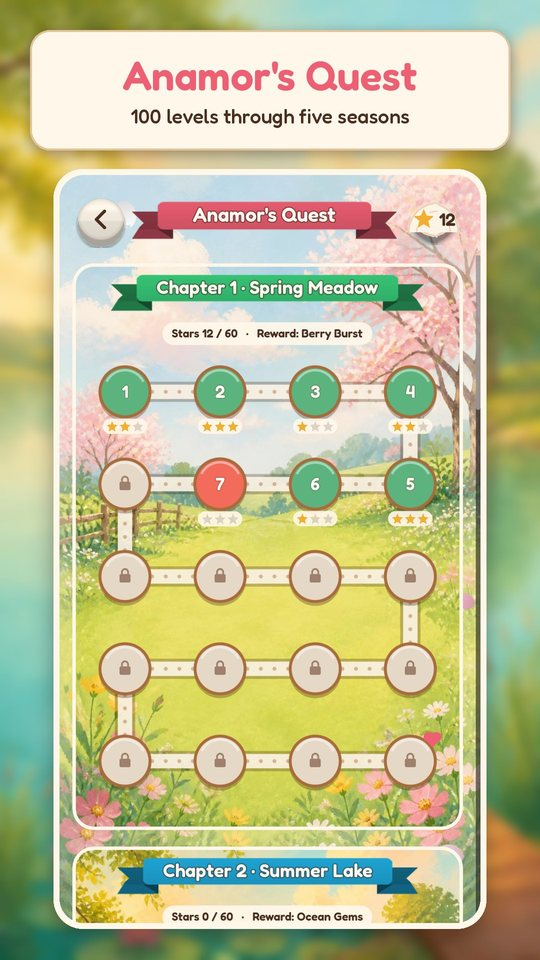
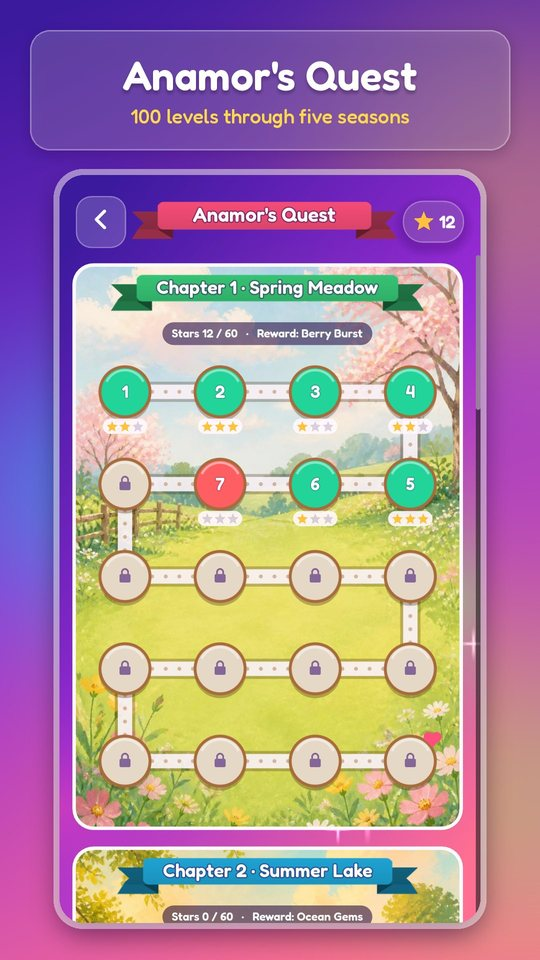
Vibrant glass restyle for v1.4
Claude-Session: https://claude.ai/code/session_01LwkA4Nvuv8MEDAxiTBvkcH

diff --git a/assets/style.css b/assets/style.css
@@ -1,33 +1,34 @@
 @font-face { font-family: "Fredoka"; src: url("Fredoka-Medium.woff2") format("woff2"); font-weight: 400 500; font-display: swap; }
 @font-face { font-family: "Fredoka"; src: url("Fredoka-SemiBold.woff2") format("woff2"); font-weight: 600 700; font-display: swap; }
 :root {
-  --bg: #fbe6c8;
-  --panel: rgba(255, 247, 234, .94);
-  --trace: #e2c49c;
-  --text: #4a2e1f;
-  --dim: #8c6a55;
-  --accent: #e2475f;
-  --accent2: #5db37e;
+  --bg: #6a11cb;
+  --panel: rgba(255, 255, 255, .95);
+  --trace: rgba(255, 255, 255, .7);
+  --text: #2e1048;
+  --dim: #6b4a8c;
+  --accent: #d6246e;
+  --accent2: #8a2be2;
   --warn: #b7791f;
-  --line: rgba(160, 110, 60, .28);
+  --line: rgba(110, 40, 160, .2);
+  --grad: linear-gradient(160deg, #6a11cb 0%, #c21dbe 50%, #ff6a5e 100%);
+  --shadow: rgba(60, 10, 110, .28);
 }
 * { box-sizing: border-box; }
 html { -webkit-text-size-adjust: 100%; }
 body {
   margin: 0;
+  min-height: 100vh;
   background: var(--bg);
-  background-image: linear-gradient(rgba(255, 244, 228, .72), rgba(255, 244, 228, .72)), url("bg.jpg");
-  background-size: cover;
-  background-position: center;
-  background-attachment: fixed;
+  background-image: radial-gradient(circle at 15% 12%, rgba(0, 229, 255, .3), transparent 30%),
+    radial-gradient(circle at 85% 45%, rgba(255, 210, 63, .3), transparent 30%), var(--grad);
   color: var(--text);
   font: 16px/1.65 "Fredoka", system-ui, -apple-system, "Segoe UI", Roboto, sans-serif;
 }
 a { color: var(--accent); }
-a:hover { color: #b8324a; }
+a:hover { color: #a3135a; }
 header.top {
   border-bottom: 1px solid var(--line);
-  background: rgba(255, 247, 234, .94);
+  background: rgba(255, 255, 255, .9);
   position: sticky; top: 0; z-index: 5;
   backdrop-filter: blur(6px);
 }
@@ -45,18 +46,28 @@ nav.links a[aria-current="page"], nav.links a:hover { color: var(--accent); }
 }
 .lang button[aria-pressed="true"] { color: var(--bg); background: var(--accent); border-color: var(--accent); }
 main { padding: 28px 0 60px; }
+/* text pages sit on a white sheet; the landing page (with .hero2) is glass on the gradient */
+main > article:not(:has(.hero2)):not(.plain) { background: var(--panel); border-radius: 26px; padding: 18px 26px 26px;
+  box-shadow: 0 14px 34px var(--shadow); }
+main > article:has(.hero2) > h2, main > article:has(.hero2) > p:not(.intro) { color: #fff; }
+main > article:has(.hero2) > h2 { text-shadow: 0 3px 8px rgba(58, 16, 96, .35); }
+main > article:has(.hero2) > p a { color: #ffe36e; }
+main > article.plain h1 { color: #fff; text-shadow: 0 3px 8px rgba(58, 16, 96, .35); }
+main > article.plain .meta { color: rgba(255, 255, 255, .88); }
+main > div[data-lang] > h2 { color: #fff; text-shadow: 0 3px 8px rgba(58, 16, 96, .35); }
+footer a { color: #ffe36e; } footer a:hover { color: #fff; }
 h1 { font-size: 30px; line-height: 1.2; margin: 8px 0 6px; letter-spacing: .02em; }
 h2 { font-size: 20px; margin: 34px 0 8px; color: var(--accent); }
 h3 { font-size: 17px; margin: 22px 0 6px; }
 .meta { color: var(--dim); font-size: 14px; margin-bottom: 18px; }
 .card {
   background: var(--panel); border: 2px solid var(--trace); border-radius: 22px;
-  padding: 18px 22px; margin: 18px 0; box-shadow: 0 8px 22px rgba(90, 50, 20, .18);
+  padding: 18px 22px; margin: 18px 0; box-shadow: 0 8px 22px var(--shadow);
 }
 .hero { text-align: center; padding: 30px 0 10px; }
-.hero img { width: 128px; height: 128px; border-radius: 28px; box-shadow: 0 10px 30px rgba(120, 60, 20, .35); }
-.hero h1 { font-size: 40px; margin-top: 16px; color: var(--accent); text-shadow: 0 2px 0 #fff, 0 0 18px rgba(255,255,255,.9); }
-.hero .sub { color: var(--accent2); letter-spacing: .3em; font-weight: 700; }
+.hero img { width: 128px; height: 128px; border-radius: 28px; box-shadow: 0 10px 30px var(--shadow); }
+.hero h1 { font-size: 40px; margin-top: 16px; color: #fff; text-shadow: 0 4px 10px rgba(58, 16, 96, .45); }
+.hero .sub { color: #ffd84d; letter-spacing: .3em; font-weight: 700; }
 .promise { border-left: 4px solid var(--accent); }
 .todo { background: rgba(255,176,0,.15); color: var(--warn); border: 1px dashed var(--warn); padding: 0 4px; border-radius: 4px; }
 table { width: 100%; border-collapse: collapse; font-size: 15px; }
@@ -64,9 +75,9 @@ th, td { text-align: left; vertical-align: top; padding: 8px 10px; border-bottom
 th { color: var(--dim); font-weight: 600; }
 .tablewrap { overflow-x: auto; }
 ul { padding-left: 22px; }
-footer { border-top: 1px solid var(--line); color: var(--dim); font-size: 14px; padding: 22px 0 40px; }
+footer { border-top: 1px solid rgba(255,255,255,.3); color: rgba(255,255,255,.85); font-size: 14px; padding: 22px 0 40px; }
 footer .wrap { display: flex; gap: 16px; flex-wrap: wrap; justify-content: space-between; }
-code { background: #f1e2cc; padding: 1px 5px; border-radius: 4px; font-size: 14px; }
+code { background: #efe4ff; padding: 1px 5px; border-radius: 4px; font-size: 14px; }
 /* language switching: without JS both languages stay visible */
 html.js [data-lang] { display: none; }
 html.js.lang-en [data-lang="en"], html.js.lang-de [data-lang="de"] { display: block; }
@@ -79,18 +90,18 @@ html:not(.js) [data-lang="de"] { border-top: 1px solid var(--line); margin-top: 
 .badge { display: inline-block; margin-top: 6px; padding: 6px 16px; border-radius: 999px; background: var(--accent); color: #fff; font-weight: 600; }
 .gallery { display: grid; grid-template-columns: repeat(auto-fit, minmax(170px, 1fr)); gap: 14px; margin: 26px 0; }
 .gallery figure { margin: 0; text-align: center; }
-.gallery img { width: 100%; border-radius: 18px; border: 5px solid #fff7ea; box-shadow: 0 10px 24px rgba(90, 50, 20, .3); }
-.gallery figcaption { font-size: 14px; color: var(--dim); margin-top: 6px; }
+.gallery img { width: 100%; border-radius: 18px; border: 4px solid rgba(255,255,255,.6); box-shadow: 0 10px 24px var(--shadow); }
+.gallery figcaption { font-size: 14px; color: #fff; margin-top: 6px; }
 html.js .gallery figcaption[data-lang] { display: none; }
 html.js.lang-en .gallery figcaption[data-lang="en"], html.js.lang-de .gallery figcaption[data-lang="de"] { display: block; }
 
 /* --- buttons --- */
 .btn { display: inline-block; border: 0; cursor: pointer; font: inherit; font-weight: 600; color: #fff; text-decoration: none;
-  padding: 10px 22px; border-radius: 18px; background: linear-gradient(#f47b6c, #ee5f50); box-shadow: 0 5px 0 #b8443a, 0 8px 18px rgba(90,40,20,.25); }
+  padding: 10px 22px; border-radius: 999px; background: linear-gradient(#ff5f9e, #e3246e); box-shadow: 0 5px 0 #a3135a, 0 8px 18px var(--shadow); }
 .btn:hover { color: #fff; filter: brightness(1.08); }
-.btn:active { transform: translateY(4px); box-shadow: 0 1px 0 #b8443a; }
-.btn.alt { color: #4a2e1f; background: linear-gradient(#fffaf2, #f5e8d4); box-shadow: 0 5px 0 #cdb393, 0 8px 18px rgba(90,40,20,.2); }
-.btn.alt:hover { color: #4a2e1f; }
+.btn:active { transform: translateY(4px); box-shadow: 0 1px 0 #a3135a; }
+.btn.alt { color: #3a1659; background: linear-gradient(#ffe066, #ffc23d); box-shadow: 0 5px 0 #d99a12, 0 8px 18px var(--shadow); }
+.btn.alt:hover { color: #3a1659; }
 .btn span[data-lang] { display: none; }
 html.lang-en .btn span[data-lang="en"], html.lang-de .btn span[data-lang="de"], html:not(.js) .btn span[data-lang="en"] { display: inline; }
 
@@ -98,21 +109,21 @@ html.lang-en .btn span[data-lang="en"], html.lang-de .btn span[data-lang="de"], 
 .tut { --cs: min(10vw, 52px); --ts: calc(var(--cs) * 0.5); margin: 10px auto 30px; max-width: 520px; text-align: center; touch-action: none; user-select: none; -webkit-user-select: none; }
 .tut-head { display: flex; justify-content: space-between; align-items: center; min-height: 30px; }
 .tut-steps { display: flex; gap: 8px; }
-.tut-steps .dot { width: 12px; height: 12px; border-radius: 50%; background: rgba(74,46,31,.18); }
+.tut-steps .dot { width: 12px; height: 12px; border-radius: 50%; background: rgba(255,255,255,.3); }
 .tut-steps .dot.done { background: var(--accent2); }
 .tut-steps .dot.now { background: var(--accent); box-shadow: 0 0 10px var(--accent); }
-.tut-score { font-weight: 600; color: var(--dim); }
-.tut-score b { color: var(--text); font-size: 22px; }
-.tut-msg { min-height: 3.2em; font-size: 18px; margin: 10px 0 14px; }
+.tut-score { font-weight: 600; color: rgba(255,255,255,.85); }
+.tut-score b { color: #fff; font-size: 22px; }
+.tut-msg { min-height: 3.2em; font-size: 18px; margin: 10px 0 14px; color: #fff; }
 .tut-msg span[data-lang] { display: none; }
 html.lang-en .tut-msg span[data-lang="en"], html.lang-de .tut-msg span[data-lang="de"], html:not(.js) .tut-msg span[data-lang="en"] { display: inline; }
 .tut-board { position: relative; display: grid; grid-template-columns: repeat(8, var(--cs)); grid-template-rows: repeat(8, var(--cs));
   width: calc(var(--cs) * 8); margin: 0 auto; padding: 8px; box-sizing: content-box; border-radius: 26px;
-  background: #f6ebda;
-  border: calc(var(--cs) * 0.3) solid #a86b3c;
-  border-image: none; box-shadow: inset 0 0 0 3px rgba(90,50,20,.25), 0 14px 30px rgba(90,50,20,.35); }
+  background: rgba(20, 0, 50, .32);
+  border: 2px solid rgba(255, 255, 255, .35);
+  border-image: none; box-shadow: 0 14px 30px var(--shadow); backdrop-filter: blur(6px); }
 .tut-board.over .cb { filter: grayscale(.85) brightness(.95); transition: filter .8s; }
-.tc { position: relative; margin: 2px; border-radius: 22%; background: #e9d9c2; box-shadow: inset 0 3px 5px rgba(90,50,20,.22); }
+.tc { position: relative; margin: 2px; border-radius: 22%; background: rgba(255, 255, 255, .13); }
 .tc.ok { background: rgba(61, 220, 132, .45); }
 .tc.bad { background: rgba(255, 59, 92, .45); }
 .tc.hl { box-shadow: inset 0 0 0 3px rgba(242,174,46,.9), 0 0 12px rgba(242,174,46,.6); }
@@ -133,54 +144,57 @@ html.lang-en .tut-msg span[data-lang="en"], html.lang-de .tut-msg span[data-lang
 .beam.v { top: -6%; height: 112%; width: calc(var(--cs) * 1.6); left: calc(8px + var(--i) * var(--cs) - var(--cs) * .3); }
 @keyframes beam { from { opacity: 1; } to { opacity: 0; transform: scale(1.1); } }
 .pop-text { position: absolute; left: 50%; top: 38%; transform: translate(-50%, -50%); font-size: 40px; font-weight: 700; pointer-events: none;
-  -webkit-text-stroke: 7px #4a2e1f; paint-order: stroke fill; animation: ptext 1s ease-out forwards; white-space: nowrap; }
+  -webkit-text-stroke: 7px #3a1060; paint-order: stroke fill; animation: ptext 1s ease-out forwards; white-space: nowrap; }
 .pop-text.pink { color: #ef5f73; } .pop-text.gold { color: #f6c453; }
 @keyframes ptext { 0% { transform: translate(-50%, -50%) scale(.3); } 25% { transform: translate(-50%, -50%) scale(1.1); } 70% { opacity: 1; } 100% { transform: translate(-50%, -70%); opacity: 0; } }
 .tut-tray { display: grid; grid-template-columns: repeat(3, 1fr); gap: 10px; margin: 16px auto 0; width: calc(var(--cs) * 8 + 16px);
-  min-height: calc(var(--cs) * 2.8); padding: 10px 0; border-radius: 22px; background: rgba(255, 247, 234, .92); border: 2px solid var(--trace); }
+  min-height: calc(var(--cs) * 2.8); padding: 10px 0; border-radius: 22px; background: rgba(255, 255, 255, .16); border: 2px solid rgba(255, 255, 255, .35); }
 .slot { display: flex; align-items: center; justify-content: center; }
 .piece { display: grid; cursor: grab; touch-action: none; }
 .piece .cb { position: relative; inset: auto; width: calc(var(--ts) - 2px); height: calc(var(--ts) - 2px); margin: 1px; }
 .piece.dim { opacity: .35; }
 .piece.lifted { visibility: hidden; }
-.drag-ghost { position: fixed; left: 0; top: 0; z-index: 50; pointer-events: none; filter: drop-shadow(0 10px 12px rgba(90,50,20,.4)); }
+.drag-ghost { position: fixed; left: 0; top: 0; z-index: 50; pointer-events: none; filter: drop-shadow(0 10px 12px rgba(40,0,80,.45)); }
 .drag-ghost .cb { position: absolute; inset: auto; transform: scale(.94); }
 .drag-ghost.back { transition: transform .18s ease-in; }
 .tut-buttons { display: flex; gap: 12px; justify-content: center; flex-wrap: wrap; margin-top: 22px; }
 .tut-msg .btn { margin-top: 10px; }
 
-/* --- landing page (v1.3) --- */
+/* --- landing page (v1.4, vibrant glass) --- */
 .hero2 { margin: 6px 0 22px; border-radius: 28px; overflow: hidden; padding: 70px 18px 40px;
-  background: url("hero.jpg") center/cover; box-shadow: 0 14px 34px rgba(90, 50, 20, .28); text-align: center; }
-.hero-card { display: inline-block; max-width: 560px; background: rgba(255, 247, 234, .93); border: 2px solid var(--trace);
-  border-radius: 26px; padding: 22px 26px 18px; box-shadow: 0 10px 26px rgba(90, 50, 20, .22); }
-.hero-icon { width: 112px; height: 112px; border-radius: 26px; margin-top: -78px; border: 5px solid #fff7ea;
-  box-shadow: 0 10px 24px rgba(90, 50, 20, .35); }
-.hero2 h1 { font-size: 40px; margin: 10px 0 2px; color: var(--accent); }
-.tagline { font-size: 19px; margin: 0 0 14px; color: var(--text); }
+  background: rgba(255, 255, 255, .14); border: 2px solid rgba(255, 255, 255, .35);
+  box-shadow: 0 14px 34px var(--shadow); text-align: center; backdrop-filter: blur(8px); }
+.hero-card { display: inline-block; max-width: 560px; }
+.hero-icon { width: 120px; height: 120px; border-radius: 28px; margin-top: -40px; border: 4px solid rgba(255,255,255,.8);
+  box-shadow: 0 12px 28px var(--shadow); }
+.hero2 h1 { font-size: 42px; margin: 12px 0 2px; color: #fff; text-shadow: 0 4px 12px rgba(58, 16, 96, .45); }
+.tagline { font-size: 20px; margin: 0 0 16px; color: #ffd84d; font-weight: 600; }
 .cta { display: flex; gap: 12px; justify-content: center; align-items: center; flex-wrap: wrap; margin: 0; }
 .cta .badge { margin: 0; }
 .shots { display: flex; gap: 14px; overflow-x: auto; scroll-snap-type: x mandatory; padding: 6px 4px 16px; }
 .shots figure { margin: 0; flex: 0 0 min(42vw, 200px); scroll-snap-align: start; }
-.shots img { width: 100%; height: auto; border-radius: 18px; border: 4px solid #fff7ea; box-shadow: 0 10px 22px rgba(90, 50, 20, .28); display: block; }
-.intro { font-size: 18px; background: rgba(255, 247, 234, .8); border-radius: 18px; padding: 14px 18px; }
+.shots img { width: 100%; height: auto; border-radius: 18px; border: 3px solid rgba(255,255,255,.6); box-shadow: 0 10px 22px var(--shadow); display: block; }
+.intro { font-size: 18px; color: #fff; background: rgba(255, 255, 255, .14); border: 2px solid rgba(255,255,255,.3); border-radius: 18px; padding: 14px 18px; }
 .seasons { display: grid; grid-template-columns: repeat(5, 1fr); gap: 12px; margin: 14px 0 6px; }
-.season { margin: 0; position: relative; border-radius: 20px; overflow: hidden; border: 4px solid #fff7ea; box-shadow: 0 8px 20px rgba(90, 50, 20, .25); }
+.season { margin: 0; position: relative; border-radius: 20px; overflow: hidden; border: 3px solid rgba(255,255,255,.7); box-shadow: 0 8px 20px var(--shadow); }
 .season img { width: 100%; display: block; aspect-ratio: 1 / 1.15; object-fit: cover; }
-.season figcaption { position: absolute; left: 6px; right: 6px; bottom: 6px; background: rgba(255, 247, 234, .92); border-radius: 12px;
+.season figcaption { position: absolute; left: 6px; right: 6px; bottom: 6px; background: rgba(255, 255, 255, .92); border-radius: 12px;
   padding: 4px 6px; text-align: center; line-height: 1.25; }
 .season b { display: block; font-size: 14px; } .season span { font-size: 12px; color: var(--dim); }
 .feats { display: grid; grid-template-columns: repeat(3, 1fr); gap: 12px; }
-.feat { background: var(--panel); border: 2px solid var(--trace); border-radius: 20px; padding: 14px 16px; box-shadow: 0 6px 16px rgba(90, 50, 20, .14); }
-.feat h3 { margin: 6px 0 4px; } .feat p { margin: 0; font-size: 15px; color: var(--dim); }
-.ico { display: inline-block; width: 46px; height: 46px; border-radius: 14px; background: var(--accent); position: relative; }
+.feat { background: rgba(255, 255, 255, .16); border: 2px solid rgba(255,255,255,.35); border-radius: 22px; padding: 14px 16px; box-shadow: 0 6px 16px var(--shadow); color: #fff; backdrop-filter: blur(6px); }
+.feat h3 { margin: 6px 0 4px; } .feat p { margin: 0; font-size: 15px; color: rgba(255,255,255,.88); }
+.ico { display: inline-block; width: 46px; height: 46px; border-radius: 14px; background: #ffc23d; position: relative; }
 .ico::after { content: ""; position: absolute; inset: 9px; background: #fff; -webkit-mask: var(--ic) center/contain no-repeat; mask: var(--ic) center/contain no-repeat; }
-.feat:nth-child(2) .ico { background: #f2ae2e; } .feat:nth-child(3) .ico { background: #4c9fd6; }
-.feat:nth-child(4) .ico { background: #ef5f73; } .feat:nth-child(5) .ico { background: #9c7bd6; } .feat:nth-child(6) .ico { background: #5db37e; }
+.i-play { --ic: url("ic_play.png"); } .i-clock { --ic: url("ic_clock.png"); } .i-calendar { --ic: url("ic_calendar.png"); }
+.i-map { --ic: url("ic_map.png"); } .i-palette { --ic: url("ic_palette.png"); } .i-heart { --ic: url("ic_heart.png"); }
+.feat:nth-child(2) .ico { background: #14c8b4; } .feat:nth-child(3) .ico { background: #a35cff; }
+.feat:nth-child(4) .ico { background: #ff6a5e; } .feat:nth-child(5) .ico { background: #2fb8ff; } .feat:nth-child(6) .ico { background: #ff3d7f; }
 .chips { display: flex; flex-wrap: wrap; gap: 8px; margin-top: 8px; }
-.chip { background: #fff; border: 1px solid var(--trace); border-radius: 999px; padding: 3px 12px; font-size: 14px; }
+.chip { background: #f3eaff; border: 1px solid #e1ccff; border-radius: 999px; padding: 3px 12px; font-size: 14px; }
 .dedication { margin: 30px 0 10px; border-radius: 26px; padding: 40px 20px; text-align: center; color: #fff;
-  background: linear-gradient(rgba(40, 20, 60, .35), rgba(40, 20, 60, .35)), url("season_together.jpg") center/cover; }
+  background: linear-gradient(rgba(40, 10, 80, .35), rgba(40, 10, 80, .35)), url("season_together.jpg") center/cover;
+  border: 2px solid rgba(255,255,255,.35); }
 .dedication h2 { color: #fff; margin-top: 0; } .dedication p { font-size: 20px; margin: 0; text-shadow: 0 2px 8px rgba(0,0,0,.4); }
 .support { text-align: center; margin-top: 18px; }
 @media (max-width: 720px) {
@@ -188,6 +202,6 @@ html.lang-en .tut-msg span[data-lang="en"], html.lang-de .tut-msg span[data-lang
   .seasons .season:last-child { grid-column: span 2; }
   .seasons .season:last-child img { aspect-ratio: 2 / 1.1; }
   .feats { grid-template-columns: 1fr; }
-  .hero2 { padding-top: 64px; } .hero2 h1 { font-size: 30px; }
+  .hero2 { padding-top: 54px; } .hero2 h1 { font-size: 30px; }
 }
 @media (min-width: 721px) { .shots { overflow: visible; } .shots figure { flex: 1 1 0; } }

diff --git a/index.html b/index.html
@@ -6,12 +6,12 @@
   <title>Home · Anamor's Block Puzzle</title>
   <meta name="title-en" content="Home · Anamor's Block Puzzle">
   <meta name="title-de" content="Start · Anamor's Block Puzzle">
-  <meta name="description" content="Anamor's Block Puzzle – a cozy 8×8 block puzzle for Android through five painted seasons. 100 levels, daily puzzle, plays offline, 20 languages.">
+  <meta name="description" content="Anamor's Block Puzzle – a colorful 8×8 block puzzle for Android with five painted seasons in its Quest. 100 levels, daily puzzle, plays offline, 20 languages.">
   <meta property="og:title" content="Anamor's Block Puzzle">
-  <meta property="og:description" content="A cozy block puzzle through painted seasons – 100 levels, daily puzzle, plays offline.">
-  <meta property="og:image" content="https://onvexalabs-dev.github.io/anamors-block-puzzle-page/assets/hero.jpg">
+  <meta property="og:description" content="A colorful, relaxing block puzzle – 100 levels, daily puzzle, plays offline.">
+  <meta property="og:image" content="https://onvexalabs-dev.github.io/anamors-block-puzzle-page/assets/og.jpg">
   <meta property="og:type" content="website">
-  <meta name="theme-color" content="#f6d9b0">
+  <meta name="theme-color" content="#8a2be2">
   <link rel="icon" type="image/png" href="assets/favicon.png">
   <link rel="apple-touch-icon" href="assets/apple-touch-icon.png">
   <link rel="stylesheet" href="assets/style.css">
@@ -42,17 +42,17 @@
         <div class="hero-card">
           <img class="hero-icon" src="assets/icon.png" alt="Anamor's Block Puzzle icon" width="112" height="112">
           <h1>Anamor's Block Puzzle</h1>
-          <p class="tagline">A cozy block puzzle through painted seasons</p>
+          <p class="tagline">A colorful, relaxing block puzzle</p>
           <p class="cta"><span class="badge">Coming soon to Google Play</span> <a class="btn alt" href="how-to-play.html">Try it in your browser</a></p>
         </div>
       </section>
-      <div class="shots"><figure><img src="assets/shot_en_1.jpg" alt="A cozy block puzzle" loading="lazy" width="540" height="960"></figure><figure><img src="assets/shot_en_2.jpg" alt="Fill rows, clear lines" loading="lazy" width="540" height="960"></figure><figure><img src="assets/shot_en_3.jpg" alt="Chain combos" loading="lazy" width="540" height="960"></figure><figure><img src="assets/shot_en_4.jpg" alt="Anamor's Quest" loading="lazy" width="540" height="960"></figure><figure><img src="assets/shot_en_5.jpg" alt="Unlock block styles" loading="lazy" width="540" height="960"></figure></div>
-      <p class="intro">Drag sweet candy blocks onto a wooden 8×8 board, fill rows and columns to clear them and chain clears into combos. No timer in Classic mode, no falling pieces – just three blocks, a little planning and a calm, painted world around you.</p>
+      <div class="shots"><figure><img src="assets/shot_en_1.jpg" alt="A colorful block puzzle" loading="lazy" width="540" height="960"></figure><figure><img src="assets/shot_en_2.jpg" alt="Fill rows, clear lines" loading="lazy" width="540" height="960"></figure><figure><img src="assets/shot_en_3.jpg" alt="Chain combos" loading="lazy" width="540" height="960"></figure><figure><img src="assets/shot_en_4.jpg" alt="Anamor's Quest" loading="lazy" width="540" height="960"></figure><figure><img src="assets/shot_en_5.jpg" alt="Unlock block styles" loading="lazy" width="540" height="960"></figure></div>
+      <p class="intro">Drag sweet candy blocks onto a glossy 8×8 board, fill rows and columns to clear them and chain clears into combos. No timer in Classic mode, no falling pieces – just three blocks, a little planning and plenty of color.</p>
       <h2>Five painted seasons</h2>
       <p>Anamor's Quest takes you through 100 handcrafted levels in five chapters. Every chapter has its own scene – with drifting petals, falling leaves, snow and fireflies.</p>
       <div class="seasons"><figure class="season"><img src="assets/season_spring.jpg" alt="" loading="lazy"><figcaption><b>Spring Meadow</b><span>Levels 1–20</span></figcaption></figure><figure class="season"><img src="assets/season_summer.jpg" alt="" loading="lazy"><figcaption><b>Summer Lake</b><span>Levels 21–40</span></figcaption></figure><figure class="season"><img src="assets/season_autumn.jpg" alt="" loading="lazy"><figcaption><b>Autumn Woods</b><span>Levels 41–60</span></figcaption></figure><figure class="season"><img src="assets/season_winter.jpg" alt="" loading="lazy"><figcaption><b>Winter Lights</b><span>Levels 61–80</span></figcaption></figure><figure class="season"><img src="assets/season_together.jpg" alt="" loading="lazy"><figcaption><b>Together</b><span>Levels 81–100</span></figcaption></figure></div>
       <h2>Ways to play</h2>
-      <div class="feats"><div class="feat"><i class="ico" style="--ic:url(ic_play.png)"></i><h3>Classic</h3><p>Endless play in Relaxed, Classic or Challenge. Beat your best score.</p></div><div class="feat"><i class="ico" style="--ic:url(ic_clock.png)"></i><h3>Timed</h3><p>Three minutes on the clock – big clears add extra time.</p></div><div class="feat"><i class="ico" style="--ic:url(ic_calendar.png)"></i><h3>Daily Puzzle</h3><p>The same shapes for everyone, every day. Keep your streak going.</p></div><div class="feat"><i class="ico" style="--ic:url(ic_map.png)"></i><h3>Anamor's Quest</h3><p>100 levels with goals and up to three stars each.</p></div><div class="feat"><i class="ico" style="--ic:url(ic_palette.png)"></i><h3>Six block styles</h3><p>Candy Pop, Berry Burst, Ocean Gems, Sunset Sugar, Midnight Neon and Amor Rose.</p></div><div class="feat"><i class="ico" style="--ic:url(ic_heart.png)"></i><h3>Fair & offline</h3><p>No account, no internet needed. Ads only if you choose a second chance.</p></div></div>
+      <div class="feats"><div class="feat"><i class="ico i-play"></i><h3>Classic</h3><p>Endless play in Relaxed, Classic or Challenge. Beat your best score.</p></div><div class="feat"><i class="ico i-clock"></i><h3>Timed</h3><p>Three minutes on the clock – big clears add extra time.</p></div><div class="feat"><i class="ico i-calendar"></i><h3>Daily Puzzle</h3><p>The same shapes for everyone, every day. Keep your streak going.</p></div><div class="feat"><i class="ico i-map"></i><h3>Anamor's Quest</h3><p>100 levels with goals and up to three stars each.</p></div><div class="feat"><i class="ico i-palette"></i><h3>Six block styles</h3><p>Candy Pop, Berry Burst, Ocean Gems, Sunset Sugar, Midnight Neon and Amor Rose.</p></div><div class="feat"><i class="ico i-heart"></i><h3>Fair & offline</h3><p>No account, no internet needed. Ads only if you choose a second chance.</p></div></div>
       <h2>Plays in your language</h2>
       <div class="card"><p>The game speaks 20 languages and picks yours automatically – you can change it any time in the settings.</p><div class="chips"><span class="chip">English</span><span class="chip">Deutsch</span><span class="chip">Français</span><span class="chip">Español</span><span class="chip">Italiano</span><span class="chip">Português (Brasil)</span><span class="chip">Nederlands</span><span class="chip">Polski</span><span class="chip">Türkçe</span><span class="chip">Русский</span><span class="chip">Українська</span><span class="chip">العربية</span><span class="chip">हिन्दी</span><span class="chip">Bahasa Indonesia</span><span class="chip">Tiếng Việt</span><span class="chip">ไทย</span><span class="chip">日本語</span><span class="chip">한국어</span><span class="chip">简体中文</span><span class="chip">繁體中文</span></div></div>
       <section class="dedication">
@@ -66,17 +66,17 @@
         <div class="hero-card">
           <img class="hero-icon" src="assets/icon.png" alt="Anamor's Block Puzzle Symbol" width="112" height="112">
           <h1>Anamor's Block Puzzle</h1>
-          <p class="tagline">Ein gemütliches Block-Puzzle durch gemalte Jahreszeiten</p>
+          <p class="tagline">Ein farbenfrohes, entspannendes Block-Puzzle</p>
           <p class="cta"><span class="badge">Bald auf Google Play</span> <a class="btn alt" href="how-to-play.html">Im Browser ausprobieren</a></p>
         </div>
       </section>
-      <div class="shots"><figure><img src="assets/shot_de_1.jpg" alt="Gemütliches Block-Puzzle" loading="lazy" width="540" height="960"></figure><figure><img src="assets/shot_de_2.jpg" alt="Reihen füllen, Linien leeren" loading="lazy" width="540" height="960"></figure><figure><img src="assets/shot_de_3.jpg" alt="Combos verketten" loading="lazy" width="540" height="960"></figure><figure><img src="assets/shot_de_4.jpg" alt="Anamor's Quest" loading="lazy" width="540" height="960"></figure><figure><img src="assets/shot_de_5.jpg" alt="Block-Stile freischalten" loading="lazy" width="540" height="960"></figure></div>
-      <p class="intro">Ziehe süße Bonbon-Blöcke auf ein hölzernes 8×8-Brett, fülle Reihen und Spalten, um sie zu leeren, und verkette Treffer zu Combos. Kein Zeitdruck im Klassik-Modus, keine fallenden Teile – nur drei Blöcke, ein bisschen Planung und eine ruhige, gemalte Welt um dich herum.</p>
+      <div class="shots"><figure><img src="assets/shot_de_1.jpg" alt="Farbenfrohes Block-Puzzle" loading="lazy" width="540" height="960"></figure><figure><img src="assets/shot_de_2.jpg" alt="Reihen füllen, Linien leeren" loading="lazy" width="540" height="960"></figure><figure><img src="assets/shot_de_3.jpg" alt="Combos verketten" loading="lazy" width="540" height="960"></figure><figure><img src="assets/shot_de_4.jpg" alt="Anamor's Quest" loading="lazy" width="540" height="960"></figure><figure><img src="assets/shot_de_5.jpg" alt="Block-Stile freischalten" loading="lazy" width="540" height="960"></figure></div>
+      <p class="intro">Ziehe süße Bonbon-Blöcke auf ein glänzendes 8×8-Brett, fülle Reihen und Spalten, um sie zu leeren, und verkette Treffer zu Combos. Kein Zeitdruck im Klassik-Modus, keine fallenden Teile – nur drei Blöcke, ein bisschen Planung und jede Menge Farbe.</p>
       <h2>Fünf gemalte Jahreszeiten</h2>
       <p>Anamor's Quest führt dich durch 100 Level in fünf Kapiteln. Jedes Kapitel hat seine eigene Szene – mit Blütenblättern, fallendem Laub, Schnee und Glühwürmchen.</p>
       <div class="seasons"><figure class="season"><img src="assets/season_spring.jpg" alt="" loading="lazy"><figcaption><b>Frühlingswiese</b><span>Level 1–20</span></figcaption></figure><figure class="season"><img src="assets/season_summer.jpg" alt="" loading="lazy"><figcaption><b>Sommersee</b><span>Level 21–40</span></figcaption></figure><figure class="season"><img src="assets/season_autumn.jpg" alt="" loading="lazy"><figcaption><b>Herbstwald</b><span>Level 41–60</span></figcaption></figure><figure class="season"><img src="assets/season_winter.jpg" alt="" loading="lazy"><figcaption><b>Winterlichter</b><span>Level 61–80</span></figcaption></figure><figure class="season"><img src="assets/season_together.jpg" alt="" loading="lazy"><figcaption><b>Gemeinsam</b><span>Level 81–100</span></figcaption></figure></div>
       <h2>Spielmodi</h2>
-      <div class="feats"><div class="feat"><i class="ico" style="--ic:url(ic_play.png)"></i><h3>Klassisch</h3><p>Endlos spielen in Entspannt, Klassisch oder Herausforderung. Knacke deinen Bestwert.</p></div><div class="feat"><i class="ico" style="--ic:url(ic_clock.png)"></i><h3>Zeitmodus</h3><p>Drei Minuten auf der Uhr – große Treffer bringen Extrazeit.</p></div><div class="feat"><i class="ico" style="--ic:url(ic_calendar.png)"></i><h3>Tagesrätsel</h3><p>Jeden Tag dieselben Formen für alle. Halte deine Serie am Leben.</p></div><div class="feat"><i class="ico" style="--ic:url(ic_map.png)"></i><h3>Anamor's Quest</h3><p>100 Level mit Zielen und bis zu drei Sternen.</p></div><div class="feat"><i class="ico" style="--ic:url(ic_palette.png)"></i><h3>Sechs Block-Stile</h3><p>Bonbon-Pop, Beeren-Explosion, Ozean-Juwelen, Sonnenuntergang, Mitternachts-Neon und Amor-Rose.</p></div><div class="feat"><i class="ico" style="--ic:url(ic_heart.png)"></i><h3>Fair & offline</h3><p>Kein Konto, kein Internet nötig. Werbung nur, wenn du eine zweite Chance willst.</p></div></div>
+      <div class="feats"><div class="feat"><i class="ico i-play"></i><h3>Klassisch</h3><p>Endlos spielen in Entspannt, Klassisch oder Herausforderung. Knacke deinen Bestwert.</p></div><div class="feat"><i class="ico i-clock"></i><h3>Zeitmodus</h3><p>Drei Minuten auf der Uhr – große Treffer bringen Extrazeit.</p></div><div class="feat"><i class="ico i-calendar"></i><h3>Tagesrätsel</h3><p>Jeden Tag dieselben Formen für alle. Halte deine Serie am Leben.</p></div><div class="feat"><i class="ico i-map"></i><h3>Anamor's Quest</h3><p>100 Level mit Zielen und bis zu drei Sternen.</p></div><div class="feat"><i class="ico i-palette"></i><h3>Sechs Block-Stile</h3><p>Bonbon-Pop, Beeren-Explosion, Ozean-Juwelen, Sonnenuntergang, Mitternachts-Neon und Amor-Rose.</p></div><div class="feat"><i class="ico i-heart"></i><h3>Fair & offline</h3><p>Kein Konto, kein Internet nötig. Werbung nur, wenn du eine zweite Chance willst.</p></div></div>
       <h2>Spielt in deiner Sprache</h2>
       <div class="card"><p>Das Spiel spricht 20 Sprachen und wählt deine automatisch – in den Einstellungen kannst du sie jederzeit ändern.</p><div class="chips"><span class="chip">English</span><span class="chip">Deutsch</span><span class="chip">Français</span><span class="chip">Español</span><span class="chip">Italiano</span><span class="chip">Português (Brasil)</span><span class="chip">Nederlands</span><span class="chip">Polski</span><span class="chip">Türkçe</span><span class="chip">Русский</span><span class="chip">Українська</span><span class="chip">العربية</span><span class="chip">हिन्दी</span><span class="chip">Bahasa Indonesia</span><span class="chip">Tiếng Việt</span><span class="chip">ไทย</span><span class="chip">日本語</span><span class="chip">한국어</span><span class="chip">简体中文</span><span class="chip">繁體中文</span></div></div>
       <section class="dedication">

diff --git a/how-to-play.html b/how-to-play.html
@@ -7,7 +7,7 @@
   <meta name="title-en" content="How to play · Anamor's Block Puzzle">
   <meta name="title-de" content="Spielanleitung · Anamor's Block Puzzle">
   <meta name="description" content="Interactive tutorial: learn how to play Anamor's Block Puzzle.">
-  <meta name="theme-color" content="#f6d9b0">
+  <meta name="theme-color" content="#8a2be2">
   <link rel="icon" type="image/png" href="assets/favicon.png">
   <link rel="apple-touch-icon" href="assets/apple-touch-icon.png">
   <link rel="stylesheet" href="assets/style.css">
@@ -33,13 +33,13 @@
     </div>
   </header>
   <main class="wrap">
-    <article data-lang="en" lang="en">
+    <article class="plain" data-lang="en" lang="en">
 
       <h1>How to play</h1>
       <p class="meta">Try it right here – drag the blocks with your mouse or finger.</p>
       
     </article>
-    <article data-lang="de" lang="de">
+    <article class="plain" data-lang="de" lang="de">
 
       <h1>Spielanleitung</h1>
       <p class="meta">Probier es direkt hier aus – zieh die Blöcke mit Maus oder Finger.</p>

diff --git a/privacy.html b/privacy.html
@@ -7,7 +7,7 @@
   <meta name="title-en" content="Privacy Policy · Anamor's Block Puzzle">
   <meta name="title-de" content="Datenschutzerklärung · Anamor's Block Puzzle">
   <meta name="description" content="Privacy policy for Anamor's Block Puzzle.">
-  <meta name="theme-color" content="#f6d9b0">
+  <meta name="theme-color" content="#8a2be2">
   <link rel="icon" type="image/png" href="assets/favicon.png">
   <link rel="apple-touch-icon" href="assets/apple-touch-icon.png">
   <link rel="stylesheet" href="assets/style.css">

diff --git a/delete-data.html b/delete-data.html
@@ -7,7 +7,7 @@
   <meta name="title-en" content="Data deletion · Anamor's Block Puzzle">
   <meta name="title-de" content="Datenlöschung · Anamor's Block Puzzle">
   <meta name="description" content="How to delete data for Anamor's Block Puzzle.">
-  <meta name="theme-color" content="#f6d9b0">
+  <meta name="theme-color" content="#8a2be2">
   <link rel="icon" type="image/png" href="assets/favicon.png">
   <link rel="apple-touch-icon" href="assets/apple-touch-icon.png">
   <link rel="stylesheet" href="assets/style.css">

diff --git a/terms.html b/terms.html
@@ -7,7 +7,7 @@
   <meta name="title-en" content="Terms of Use · Anamor's Block Puzzle">
   <meta name="title-de" content="Nutzungsbedingungen · Anamor's Block Puzzle">
   <meta name="description" content="Terms of use for Anamor's Block Puzzle.">
-  <meta name="theme-color" content="#f6d9b0">
+  <meta name="theme-color" content="#8a2be2">
   <link rel="icon" type="image/png" href="assets/favicon.png">
   <link rel="apple-touch-icon" href="assets/apple-touch-icon.png">
   <link rel="stylesheet" href="assets/style.css">

diff --git a/imprint.html b/imprint.html
@@ -7,7 +7,7 @@
   <meta name="title-en" content="Imprint · Anamor's Block Puzzle">
   <meta name="title-de" content="Impressum · Anamor's Block Puzzle">
   <meta name="description" content="Imprint / Impressum for Anamor's Block Puzzle.">
-  <meta name="theme-color" content="#f6d9b0">
+  <meta name="theme-color" content="#8a2be2">
   <link rel="icon" type="image/png" href="assets/favicon.png">
   <link rel="apple-touch-icon" href="assets/apple-touch-icon.png">
   <link rel="stylesheet" href="assets/style.css">
